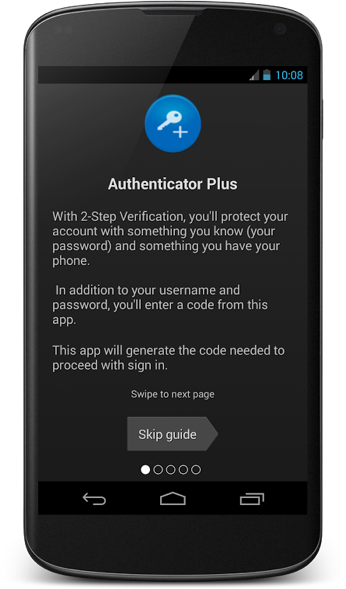
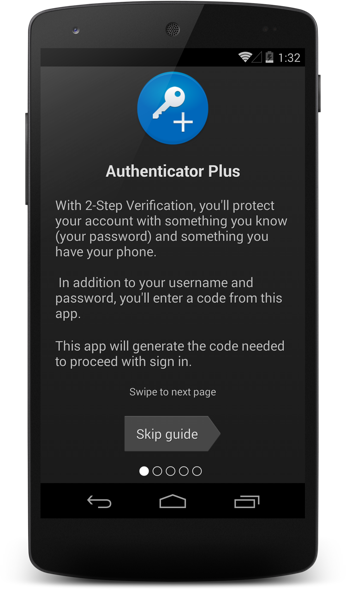
update latest screenshots

diff --git a/index.html b/index.html
@@ -47,13 +47,12 @@
 <h3 class=centered>Better way to manage 2-factor enabled accounts</h3>
 <br>
 <div id=slideshow class=cycle-slideshow>
-<img itemprop=screenshot src="assets/img/1.png" width=346 height=589>
-<img itemprop=screenshot src="assets/img/2.png" width=346 height=589>
-<img itemprop=screenshot src="assets/img/3.png" width=346 height=589>
-<img itemprop=screenshot src="assets/img/4.png" width=346 height=589>
-<img itemprop=screenshot src="assets/img/5.png" width=346 height=589>
-<img itemprop=screenshot src="assets/img/6.png" width=346 height=589>
-<img itemprop=screenshot src="assets/img/7.png" width=346 height=589>
+<img itemprop=screenshot src="assets/img/1.png" width=346 height=590>
+<img itemprop=screenshot src="assets/img/2.png" width=346 height=590>
+<img itemprop=screenshot src="assets/img/3.png" width=346 height=590>
+<img itemprop=screenshot src="assets/img/4.png" width=346 height=590>
+<img itemprop=screenshot src="assets/img/5.png" width=346 height=590>
+
 </div>
 </div>
 <br>
@@ -93,8 +92,8 @@
 </div>
 </div>
 
-<meta itemprop="image" content="https://lh6.ggpht.com/GxO-YPkdkzXwkpdThf-YLgFH0hx1re0M_HRwJfnJdD0NAdGQDy7OOeldDxLIx3Kotcw=w300-rw">
-<meta itemprop="logoImageUrl" content="https://lh6.ggpht.com/GxO-YPkdkzXwkpdThf-YLgFH0hx1re0M_HRwJfnJdD0NAdGQDy7OOeldDxLIx3Kotcw=w300-rw">
+<meta itemprop="image" content="https://lh5.googleusercontent.com/-vBGIAKoROlk/UwuPUJ832jI/AAAAAAAAACA/oWufozayf8Y/s512-no/web_512.png">
+<meta itemprop="logoImageUrl" content="https://lh5.googleusercontent.com/-vBGIAKoROlk/UwuPUJ832jI/AAAAAAAAACA/oWufozayf8Y/s512-no/web_512.png">
 <meta itemprop="logoHrefUrl" content="http://authenticatorplus.com">
 <meta itemprop="url" content="http://authenticatorplus.com">
 
@@ -102,7 +101,7 @@
 <meta itemprop="downloadUrl" content="https://play.google.com/store/apps/details?id=com.mufri.authenticatorplus">
 <meta itemprop="applicationCategory" content="Tools">
 <span itemprop="author" itemscope itemtype="http://schema.org/Organization">
-<meta itemprop="url" content="http://mufri.com">
+<meta itemprop="url" content="http://www.mufri.com">
 <meta itemprop="name" content="Mufri"></span>
 </span>
 
@@ -141,7 +140,7 @@
 <br>
 <br>
 <div class="col-lg-6 centered">
-<img class=centered itemprop=image src="assets/img/2.png" width=346 height=589>
+<img class=centered itemprop=image src="assets/img/3.png" width=346 height=590>
 </div>
 <div class=col-lg-6>
 <div class="accordion ac" id=accordion2>
@@ -153,7 +152,7 @@ What is Authenticator Plus
 </div>
 <div id=collapseOne class="accordion-body collapse in">
 <div class=accordion-inner>
-<p>Authenticator Plus is one-time passcode generator for 2-step verification, with Backup/Restore, Seamless Sync across devices, encrypted data storage and other customisation options.</p>
+<p>Authenticator Plus is one-time passcode generator for two-factor enabled accounts, easiest way to manage all your two-factor authentication account without hassles.</p>
 </div>
 </div>
 </div>
@@ -260,7 +259,7 @@ Icons by <a href="https://www.iconfinder.com/icons/3283/preferences_settings_too
 </span>
 <span class=right>
 <a href=http://changelog.authenticatorplus.com>Release Notes</a> | <a href=http://authenticatorplus.com/terms.html>Terms of Service</a> | <a href=http://authenticatorplus.com/privacy.html>
-&nbsp;Privacy</a> | &nbsp;<a href=http://mufri.com>Copyright &copy; mufri.com</a>
+&nbsp;Privacy</a> | &nbsp;<a href=http://www.mufri.com>Copyright &copy; mufri.com</a>
 </span>
 </p>
 </div>
